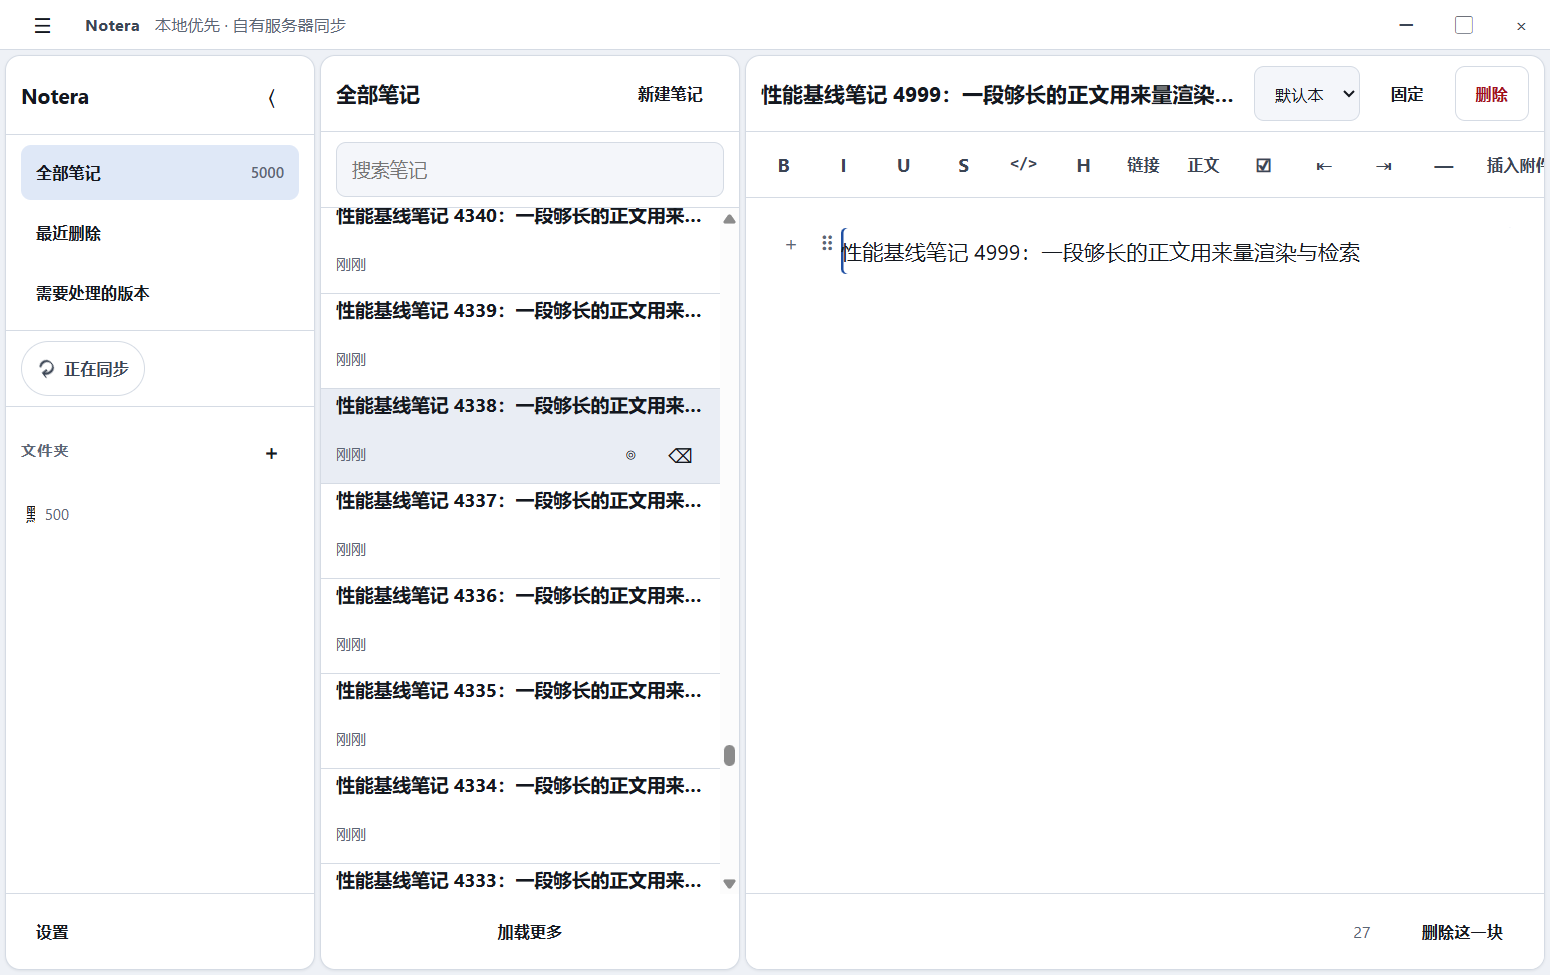
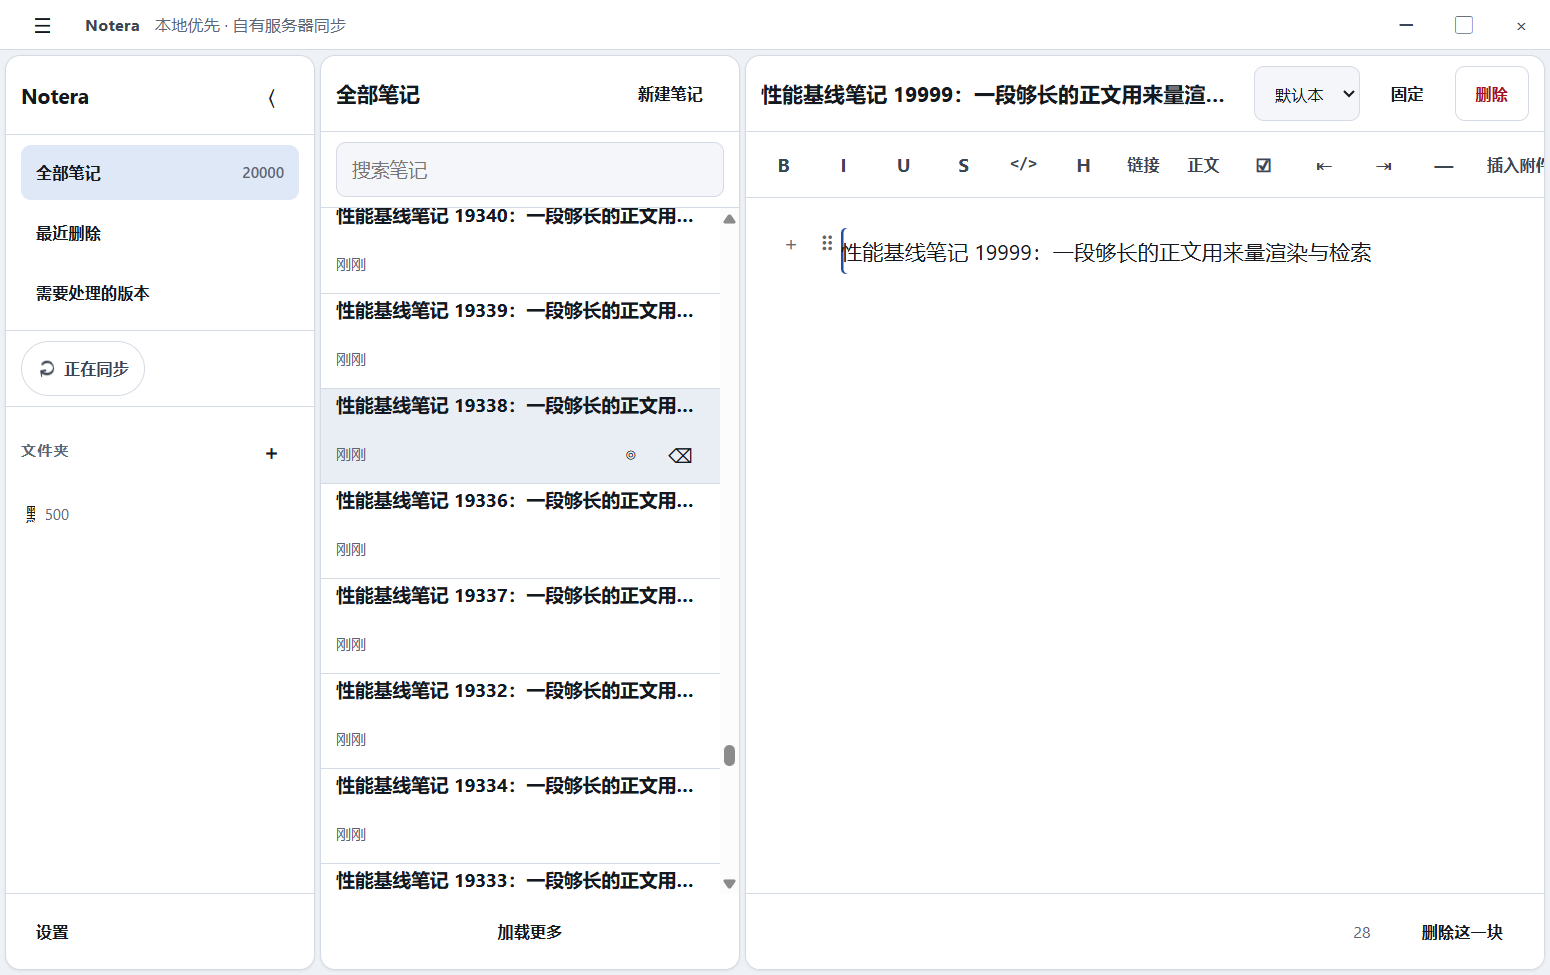
docs(accuracy): 回收站"30 天自动永久删除"是没实现的设计意图 —— 三处活文档改成实话；20000 档补测完
§45 那条"文档 == 代码"的对账扫出来的：DATA-MODEL 的两级删除表里写着"30 天到期 → 自动等价于
永久删除"，ARCHITECTURE-REVIEW 也写了两遍"回收站 30 天"。实情是全仓没有任何到期清理代码
（auto_purge / purge_expired / TRASH_DAYS 都搜不到）—— 回收站里的笔记放着不管永远不会消失。
界面文案本身是干净的（只说"最近删除"，没承诺天数），所以这不是用户被误导，而是下一个照文档
去实现的人会被带偏。

不顺手把它实现掉的理由写在文档里了：那等于让应用无人签核地主动销毁用户数据，与 GC 那一格同一
条理由（销毁要人先点头）；而且它连带影响 blob 回收 —— 笔记被自动 purge 之后链接才归零，那条
blob 才会进回收候选。"要不要到期自动清、要不要给用户一个保留天数开关"是产品决定，按 §51 交给
用户，本轮只把文档改成实话并写明影响面（把回收站当归档的人，本机盘与服务器墓碑都不会自己收缩）。

20000 条那一档在本批新编的 release 壳上重跑完（台账里"本批未重跑"那句结掉）：
首屏最好 1455 ms（旧记 1322；预算 ≤1500 仍过，余量只剩 45 ms —— 不当稳态结论）、
RSS 69.3 → 69.4 MiB（与 27 号那档的 69.1 对得上）、滚动 442 帧 p95 17 ms / 最坏 17 ms；
同一次跑里的空库 best = 1450 ms，是 G13 的第三个独立观测点。顺带量到灌 20000 条走产品写入
路径要 294.4 s ≈ 68 条/秒，这是"导入/换机要等多久"的真实尺度。覆盖范围照实写：这次 120 次
滚轮只跨过 323 行（上档 807 行），两次的"滚得多深"不同，不拿较好那次说话。

纯文档与实测台账，无产品改动，版本不动（仍 0.0.21）。arch-check 28/28；跑完顺手把 lane 留下
的 .logs 临时数据目录清掉了（三十多 MB）。

diff --git a/CHANGELOG.md b/CHANGELOG.md
@@ -21,7 +21,7 @@
 | 千库规模 `--test big_library`（SY-INT-14 / PERF-05 量级版） | 1/1，13.8 s（1000 条：追平轮数有界、空轮 1 请求 0 字节、默认本全网络只有一条、逐条比对读满、**追平期间每个基线分段最多整份下载一次**） |
 | 链路抖动 `--test reconnect`（SY-INT-11） | 1/1（六轮各坏一次，恢复后账目归零、两台设备逐条一致） |
 | P11 面板 `scripts/verify-p11-panel.mjs` | **11/11 —— 2026-09-28 在当前 HEAD（`d5cf2ef`）上重跑**（真浏览器读**两台真设备留在盘上的现场**：右栏是服务器那一版、无载荷时说的是"没取回来"、冲突笔记留在正常列表且 ⚠ 只落在冲突行上；截图证据进 `docs/evidence/`。本表此前写的是"11/11（…）"没标日期，那是上一批的数；两张台账里还有 10/10 的旧数也在同批对齐到 11/11） |
-| 性能基线 `scripts/verify-perf.mjs`（PERF-01/10/13） | **3/4 —— 空库那一档本批没有达标，按实记为缺口 G13**（2026-09-28 用本批新编的 0.0.21 release 壳重测，同一台机器同一会话）：空库 best-of-3 **1134~1184 ms**（口径 ≤1000），5000 条 **1088 ms** ✓（≤1500），滚动 449 帧 p95 17 ms ✓，RSS 31.5 → 46.6 → 47.4 MiB ✓。**对照**：同会话里上一批那个旧 release 壳 best = **1090 ms** ⇒ 新壳与旧壳差 44~94 ms，落在跑与跑的散布之内，**这条不绿不是回归**；而历史上记的 866 ms 今天复现不出来。**另一条更要紧**：**一个全新数据目录的首启实测 6.2~8.1 s**，而这条 lane 的判据是"REPS 遍里最好的一遍"，正好把新装用户那一次藏掉了 —— 从本批起 PERF-01 同时记首遍与最好。夹具的账也记一条：一开始复用旧 `RUN_TAG` 的"空库"目录（里面是 27 号那批的 342 KB WAL 与旧行）量出 4695 ms，换全新目录才是上面这组数。20000 条那一档本批**未重跑** |
+| 性能基线 `scripts/verify-perf.mjs`（PERF-01/10/13） | **3/4 —— 空库那一档本批没有达标，按实记为缺口 G13**（2026-09-28 用本批新编的 0.0.21 release 壳重测，同一台机器同一会话）：空库 best-of-3 **1134~1184 ms**（口径 ≤1000），5000 条 **1088 ms** ✓（≤1500），滚动 449 帧 p95 17 ms ✓，RSS 31.5 → 46.6 → 47.4 MiB ✓。**对照**：同会话里上一批那个旧 release 壳 best = **1090 ms** ⇒ 新壳与旧壳差 44~94 ms，落在跑与跑的散布之内，**这条不绿不是回归**；而历史上记的 866 ms 今天复现不出来。**另一条更要紧**：**一个全新数据目录的首启实测 6.2~8.1 s**，而这条 lane 的判据是"REPS 遍里最好的一遍"，正好把新装用户那一次藏掉了 —— 从本批起 PERF-01 同时记首遍与最好。夹具的账也记一条：一开始复用旧 `RUN_TAG` 的"空库"目录（里面是 27 号那批的 342 KB WAL 与旧行）量出 4695 ms，换全新目录才是上面这组数。20000 条那一档**本批也已重跑**（`RUN_TAG=g20k NOTES=20000`）：首屏最好 **1455 ms**（旧记 1322）、RSS 69.3 → 69.4 MiB、滚动 442 帧 p95 17 ms，同一次跑的空库 best = 1450 ms（G13 的第三个观测点）；顺带量到**灌 20000 条走产品写入路径要 294.4 s**（≈68 条/秒） |
 | Windows 安装器 `RUSTUP_TOOLCHAIN=stable-x86_64-pc-windows-gnu pnpm --dir apps/desktop tauri build --target x86_64-pc-windows-gnu --bundles nsis` | **`.exe` 产出 4.48 MiB（`Notera_0.0.21_x64-setup.exe`，2026-09-28 在本批的树上重新出包**；此前这里挂的是 0.0.13 / 4.46 MiB）。出货产物侧同批在新包上重验了两件事：① 真窗口 **release 9/9**（内嵌资源 `http://tauri.localhost/`、真 `invoke`、真 SQLite）；② 拿新包那个 `notera-desktop.exe` 起来后 `17323/health` **连接被拒** —— "dev 桥只关在 debug 构建里"在这一版二进制上成立（并且证明了进程确实起来了：日志里有 WebView 窗口类那一行）。命令里 **`RUSTUP_TOOLCHAIN` 不能省**：只给 `--target …-gnu` 不够，build script 与 proc macro 按 host triple 编，host 是 msvc → 照样去调被 Git Bash 的 coreutils `link` 顶掉的 `link.exe`，第一次跑就是这样炸成"一堆第三方 crate 编不过"。`--bundles msi` 仍 BLOCKED（WiX `LGHT0102` 的 loc 变量 + 我把自己 shell 的 cwd 留在临时目录里造成文件锁），装移动作与代码签名未验。JS/Rust 的 tauri 次版本错配那条依旧两侧对到 2.12.0 |
 | §27 附件故障注入 `--test attachment_faults` | **21/21**（本机 blob 丢了自愈、截断换整份、服务器同长度坏字节被拒、下载被掐不 promote、半上传不落正式对象、远端 404 收手不空转、**只有附件端点超时**时文本轮并发验穿且附件轮在 45 s 预算内自己放手、**MOVE 被 412 拒的两端都咬住**、坏字节**只挪开不销毁**、同长度位腐在**读侧**被拒而不会被画进界面、**体检复算过哈希就把登记尺寸改对并且一次改对**、**体检一轮降的条数有上界**、**发布被掐不算上传成功**、**发布收到裸 404 不写任何一侧的结论**、**复读被掐时对象虽已落成也不许记 present**、**「重试取回」真能重开一次收手的结论**、**该拒绝的恢复动作各有自己的具名码**、**「重新上传本机这份」真把服务器上的坏对象换掉**）—— 十九条各配变异自证 M1..M31；另有存储层两条（`attachment_queue.rs` 的 M21a/M21b、`injection.rs` 的规则文法 M18/M22）与前端 5 条契约测试（`stores/attachmentRecovery.spec.ts`），见下面 commit 级的说明 |
 | 附件回收（GC）`--test attachment_gc` | **7/7**（零引用的 blob **挪进隔离区而不是删**、回收站里的笔记仍算引用、每轮量有上界且不饿死、撤销期内被重新引用则**本地补回且零请求**、宽限期与引用守卫双向、手动「重试取回」认隔离区、隔离副本位腐了按钮也不静默失效、**崩在"字节已挪走而账还没写"那一格会自己收回来且不花一次请求**）；存储侧 `--test attachment_queue` **8/8**（其中两条是这批新增：隔离那一步只动仍零引用的行并结掉待办、销毁清单拒掉有引用/没登记的行）。十三次变异自证 **M32..M45**，其中 **M38 第一次跑是绿的** —— 我把它打在 FT-ATT-30 上，而那条走的是登记路径（`upsert` 自己就把 `deleted_at` 清了），真正吃这条规则的是 FT-ATT-32；换过去之后红。见下面 commit 级的说明 |
@@ -36,6 +36,10 @@
 复现命令见 `docs/ARCHITECTURE-MAP.md` §8；分领域的验收状态（含 BLOCKED 项的原因与解除条件）见 `docs/IMPLEMENTATION-STATUS.md`。
 
 ### 新增
+
+- **改掉一处"文档写得很像已实现、代码里根本没有"的活文档**（§45 对账扫出来的）：DATA-MODEL 的两级删除表里有一行"**30 天到期 → 自动等价于永久删除**"，`ARCHITECTURE-REVIEW` 里也写了两遍"回收站 30 天"。实情是**回收站没有到期日**：全仓没有任何到期清理代码（搜不到 `auto_purge`/`purge_expired`/`TRASH_DAYS`），回收站里的笔记放着不管永远不会消失。界面文案是干净的（只说"最近删除"，没承诺天数），所以这不是用户被误导，而是**下一次照文档实现的人会被带偏**。
+  - **为什么不干脆把它实现掉**：那等于让应用**无人签核地主动销毁用户数据**，与 GC 那一格同一条理由（销毁要人先点头）。它也连带影响 blob 回收 —— 笔记被自动 purge 之后链接才归零、blob 才会进回收候选。所以这一条按 §51 交给用户决定（要不要到期自动清、要不要给用户一个"回收站保留 N 天"的开关），本轮只把文档改成实话：**三处已改**（DATA-MODEL 表格 + 那一行下面的说明段、ARCHITECTURE-REVIEW 两句），并写明影响面（拿回收站当归档的人，本机盘与服务器墓碑都不会自己收缩）。
+- **20000 条那一档在本批新编的 release 壳上重跑完**（上一条台账里写的"本批未重跑"到此结掉）：首屏最好 **1455 ms**（旧记 1322，预算 ≤1500 仍过但只剩 45 ms 余量 —— 这一格以后绿不绿取决于机器状态，不当稳态结论）、RSS **69.3 → 69.4 MiB**（与 27 号那档的 69.1 对得上）、滚动 **442 帧 p95 17 ms / 最坏 17 ms**；同一次跑里的空库 best = **1450 ms**，是 G13 的第三个独立观测点。顺带量到一个此前没记过的数：**灌 20000 条走产品写入路径要 294.4 s ≈ 68 条/秒**（含每次保存的 FTS 与 revision）—— 这是"导入/换机要等多久"的真实尺度。覆盖范围照实写：这次 120 次滚轮只跨过 323 行（上一档是 807 行），所以两次的"滚得有多深"不一样，不拿较好的那次说话。
 
 - **体检那一格也补了一条崩溃门禁**（TEST-PLAN CI-CRASH-12）—— 上一批只给 GC 的"挪走与写账之间"做了证据，而磁盘体检的"坏字节挪成 `.corrupt`"是**同样两步**，形状也一样：正式位置已经空了，而账上还写着 available。
   - 新注入点 `after_corrupt_park` 插在 `park_corrupt_blob` 成功之后、`lost.push(sha)`（也就是那次批量降级）之前。门禁 `attachment_faults.rs::a_crash_right_after_parking_the_corrupt_copy_still_gets_a_clean_replacement` 断言：崩完之后 `.corrupt` 里那份**逐字节等于挪开前的坏字节**（断电不是销毁）、账上仍是那条假账、正文照旧可用；重启后一轮附件轮自己把这一行捡回来（体检降级 → 下载 → 拿到好字节之后才清现场），补完那一轮之后收手 `(0,0,0)`。

diff --git a/docs/TEST-PLAN.md b/docs/TEST-PLAN.md
@@ -453,7 +453,7 @@
 | PERF-10 | 内存上限（桌面，20000 条 + 100 附件索引） | 暂定 RSS ≤450 MiB；单轮同步峰值增量 ≤50 MiB。**这一档还欠一个量：附件轮开工前的磁盘体检**（`attachment_repair_candidates` 一次查询 + 每条候选一次 `stat`）在 100 / 1000 附件下的耗时与是否可察觉 —— 2026-09-27 加自愈时只写了成本推理（每候选一次 stat，哈希只在长度不符时才算），**没有实测**，按 §40 记在此处。**2026-09-28 进展**：那一格每轮的量现在**有上界**了（候选 `LIMIT` + 一次批量写事务，§48 G4 已解除，门禁 FT-ATT-21/21s），但"有界"不等于"已量化"—— 100 / 1000 附件下体检实际花多少毫秒**仍然没测**，这条欠账照旧记着 | L5 采样（30 min 使用 + 5 轮同步），增长趋势 ≤5%/轮以排除泄漏 | **规模侧已实测**（`scripts/verify-perf.mjs` 用系统 `Get-Process.WorkingSet64` 读，不是前端自报）：空库 31.7~32.3 MiB、**20000 条 69.1 MiB**、滚完 807 行后 70.1 MiB（**+1.0 MiB**，没有可见的滚动/分页泄漏）；5000 条那一档 46.2 → 46.7 MiB。**未采**：① 100 个附件的索引规模；② 30 min × 5 轮同步的趋势线（要真长时间挂跑，这条 lane 不含）→ 上限那半句算已过（69 MiB ≪ 450），**泄漏趋势那半句还是未验**。<br>**2026-09-28 补：体检与 GC 那一格的每轮代价已经量了**（`--test attachment_gc_scale`，`#[ignore]`，debug 构建，2000 份 1 KiB blob / 1500 条笔记被永久删除）：**空转一轮 1 ms**（回收 + 销毁都无事可做 —— 这才是常驻循环每 20 s 真付的钱）；体检候选查询 9 ms、GC 候选查询 15 ms（cap=200）；**爆发那一形**：一轮 200 次挪进隔离区 = 1160 ms 平均每轮、8 轮把 1500 条搬完，销毁侧 8 轮共 4141 ms（平均每轮 517 ms）；搬完与销完之后各查一遍，仍被引用的 500 份字节一份不少。<br>三点解读要照实写：① 数字是 **debug 构建**，release 只会更快，所以这是上界不是期望值；② 那 1.2 s 几乎全是**文件系统 rename**（元数据操作，与文件大小基本无关），而且发生在**写事务之外** —— 它不占写锁，用户那次保存不会排在它后面，这正是 G4 当初要的形状；③ 它是**同步阻塞**调用，占的是附件轮那个任务所在的 tokio worker 约 1 s —— 这一类阻塞在这一格里**本来就有**（上传分支一次 `std::fs::read` 一个 ≤32 MiB 的 blob 比它贵得多），所以 GC 没有引入新的类别，但也没有把它消掉：**这条 measured 的结论是"爆发可容忍、空转可忽略"，不是"附件轮里没有同步 IO"**。仍然没量的：真实大文件（几 MiB 级）下的 rename/remove 代价、以及 100 附件那一档的内存。 |
 | PERF-11 | 附件不阻塞文本 | 附件在飞时文本轮 ≤25 s 到达对端；`STATS` 证明文本轮不等待 `attachments/**` | L3 + `FAIL(latency,target=attachments/**,ms=…)`；PROBE:`timeout-and-cancel` 证明取消语义真实可用 | 待建基线（机制已实测） |
 | PERF-12 | 自动保存落盘频率 | ≤3 次 / 20 次快速输入；输入到落盘 ≤1500 ms | L1 fake clock；暂定 | 待建基线 **已实现并通过**（`notera-host/../stores/editor.spec.ts` 的「自动保存的节拍有上界（PERF-12）」：假时钟下连打 30 下、每 50ms 一次，`edit_note` 次数必须 >0 且 ≤3，且末次正文完整 —— 不是"理论上有防抖"）|
-| PERF-13 | 列表滚动 / 大数据量渲染 | 20000 条列表滚动无 >50 ms 掉帧（暂定），首屏 ≤1 s | L5 采集（CDP trace） | **已实测（20000 条那一档，2026-09-27 本机 release 壳）**：300 次真滚轮共 **1120 帧，p95 = 17 ms、最坏一帧也是 17 ms**（预算 ≤50 ms）；首屏（第一行可见）最好 1322 ms。覆盖范围写清楚：这一滚跨过了 **807 行**、滚到列表深度的 **92%**（125171 / 136800 px），虚拟化列表 DOM 常驻只有 16-17 行 —— 所以它量到的是"滚 + 分页取数 + 重排"这一段，不是"一次性渲染 2 万行"（那本来就不是本设计）。判据里还有一条自检：**滚不过一页（<300 行）就直接红**，免得"浅滚"冒充大列表基线 |
+| PERF-13 | 列表滚动 / 大数据量渲染 | 20000 条列表滚动无 >50 ms 掉帧（暂定），首屏 ≤1 s | L5 采集（CDP trace） | **已实测（20000 条那一档，2026-09-27 本机 release 壳）**：300 次真滚轮共 **1120 帧，p95 = 17 ms、最坏一帧也是 17 ms**（预算 ≤50 ms）；首屏（第一行可见）最好 1322 ms。覆盖范围写清楚：这一滚跨过了 **807 行**、滚到列表深度的 **92%**（125171 / 136800 px），虚拟化列表 DOM 常驻只有 16-17 行 —— 所以它量到的是"滚 + 分页取数 + 重排"这一段，不是"一次性渲染 2 万行"（那本来就不是本设计）。判据里还有一条自检：**滚不过一页（<300 行）就直接红**，免得"浅滚"冒充大列表基线。<br>**2026-09-28 在本批新编的 0.0.21 release 壳上重跑（`RUN_TAG=g20k NOTES=20000 REPS=2`）**：首屏最好 **1455 ms**（上一档是 1322 ms；预算 ≤1500 仍过，但余量只剩 45 ms —— 这一格以后红不红取决于机器状态，不当作稳态结论）、RSS 起步 **69.3 MiB** 滚完 **69.4 MiB**（与 27 号那档的 69.1 对得上，没有可见增长）、滚动 **442 帧 p95 17 ms / 最坏 17 ms**，跨过 323 行、滚到深度 50091/60800（82%）—— 覆盖比上次浅一点（同样 120 次滚轮，上次数到 807 行），因为这一档的列表总深度不同；同一次跑里"空库"那一档 1450 ms（见 PERF-01 的 G13）。顺带量到一个之前没记过的数：**灌 20000 条走产品写入路径要 294.4 s**（≈68 条/秒，含每次保存的 FTS 与 revision），这是"导入/迁移要多久"的真实尺度，比任何推理都有用 |
 | PERF-14 | 网络层出站请求数（一轮） | 与 `DUMP` 差分一致：无多余 PROPFIND（每轮 ≤1） | L3 `STATS`；**已实测**（`sync_cost` 断言 PROPFIND ≤1/轮，且空轮总请求 ≤2） |
 | PERF-15 | Android 冷启动（arm64-v8a，中端机） | 暂定 ≤2500 ms | L6 + 真机；无法本机测量 | 待建基线（本机 **BLOCKED**，见 Q2） |
 

diff --git a/docs/FINAL-REVIEW-2026-09-27.md b/docs/FINAL-REVIEW-2026-09-27.md
@@ -127,7 +127,7 @@ assert!(got.get("code").is_some() || got.get("data").and_then(|v| v.as_str()).is
 | G10 | 100 附件那一档性能、30 min × 5 轮泄漏趋势 | 前者夹具未做，后者要不被打断的长跑 | 附件规模下的内存/耗时没有可回归的数字（本轮的体检也还没量） | 本机可做：造 100 附件夹具 + `verify-perf` 加一档；长跑排一段空闲窗口 |
 | G11 | 屏幕阅读器真机（NVDA / VoiceOver） | 需人工 | 无障碍只有静态门禁 + 契约测试撑着 | 用户或运维人工过一遍（§49） |
 | G12 | `pnpm audit` 拿不到建议数据 | 镜像没有 `advisories/bulk` 端点 | 前端依赖漏洞审计这条门**从未真正跑过** | 换 registry 或允许离线 SBOM 对比；不要拿"命令跑通了"当结论 |
-| G13 | **PERF-01 空库冷启动本批未达标（新发现，不是"一直如此"）**：同一台机器上 best-of-3 = 1134~1184 ms，而口径是 ≤1000 ms；历史上记的 866 ms 今天复现不出来 | 起量的是 WebView2 那一段（CDP 可接 ≈ 800 ms 占了大头）。**关键对照**：同会话里旧 release 壳 best = 1090 ms，新壳 = 1134 ms ⇒ 差异在跑与跑的散布内，所以这不是我这几批代码引入的回归，而是"这条门今天在这台机器上不绿" | 用户第一次双击图标等待时间比口径多约 10~20%；更重要的是**一个全新数据目录的首启实测 6.2~8.1 s**，而 lane 现在取"最好的一遍"，把新用户那一次藏起来了 | 两件事，都要做：① 台账与 lane 从今往后**同时记首遍与最好**（本批已写进 PERF-01 的判据列）；② 要么真把首帧压回 1000 ms 以内（先看 WebView2 那 800 ms 里有什么是可省的 —— 这是产品优化，不是文档工作），要么由用户改口径（例如"日常启动 ≤1000、首启 ≤8000"分档）。**我不擅自改口径**（§51），这一条进 §52 终报里交给用户拍板 |
+| G13 | **PERF-01 空库冷启动本批未达标（新发现，不是"一直如此"）**：同一台机器上 best-of-3 = **1134 / 1184 / 1450 ms**（三次独立起跑，最后一次是 20000 档那一次），而口径是 ≤1000 ms；历史上记的 866 ms 今天复现不出来 | 起量的是 WebView2 那一段（CDP 可接 ≈ 800~1070 ms 占了大头）。**关键对照**：同会话里旧 release 壳 best = 1090 ms，新壳 = 1134 ms ⇒ 差异在跑与跑的散布内，所以这不是我这几批代码引入的回归，而是"这条门今天在这台机器上不绿" | 用户第一次双击图标等待时间比口径多约 10~20%；更重要的是**一个全新数据目录的首启实测 6.2~8.1 s**，而 lane 现在取"最好的一遍"，把新用户那一次藏起来了 | 两件事，都要做：① 台账与 lane 从今往后**同时记首遍与最好**（本批已写进 PERF-01 的判据列）；② 要么真把首帧压回 1000 ms 以内（先看 WebView2 那 800 ms 里有什么是可省的 —— 这是产品优化，不是文档工作），要么由用户改口径（例如"日常启动 ≤1000、首启 ≤8000"分档）。**我不擅自改口径**（§51），这一条进 §52 终报里交给用户拍板 |
 
 ### 3.4 还没测的组合（不是缺口清单，是"下一步该打哪里"）
 

diff --git a/docs/ARCHITECTURE-REVIEW.md b/docs/ARCHITECTURE-REVIEW.md
@@ -98,7 +98,7 @@ content_hash 当前内容 sha256
 
 这条实测结论直接否决了"统一走全文索引"的朴素实现，是必须写进代码的硬规则。
 
-**删除**：两级（回收站 30 天 → 永久删除），见 §7。
+**删除**：两级（回收站 → 永久删除），见 §7。（**2026-09-28 更正**：原来这句写着"回收站 30 天" —— 到期自动永久删除从未实现，也不打算在无人签核的情况下替用户删数据；回收站今天没有到期日。见 DATA-MODEL 的两级删除表。）
 
 （详见 DATA-MODEL.md）
 
@@ -165,7 +165,7 @@ content_hash 当前内容 sha256
 
 ## 7. Delete/Tombstone Strategy
 
-三态：正常 → 回收站（`deleted_at`，30 天）→ 永久删除（`purged`）。
+三态：正常 → 回收站（`deleted_at`，**无到期日**）→ 永久删除（`purged`）。
 
 删除是**记录内容**（信封多一个字段），不是"文件消失" → 与编辑共用同一条已验证路径，不需要独立协议。
 
